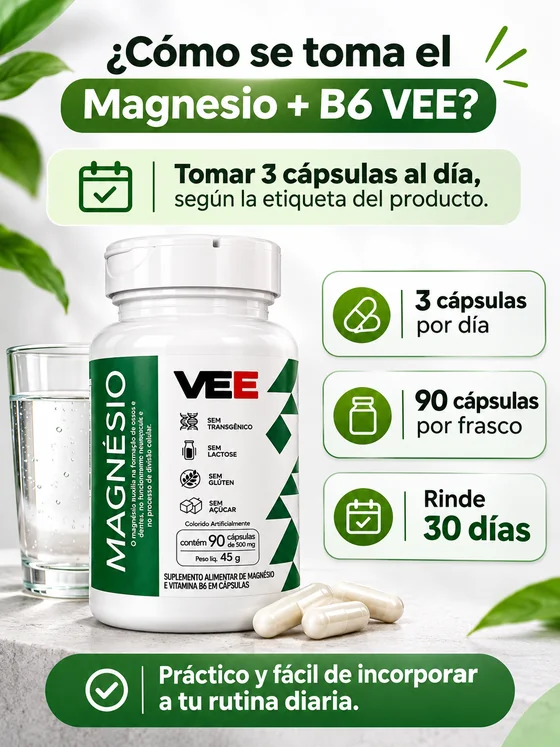
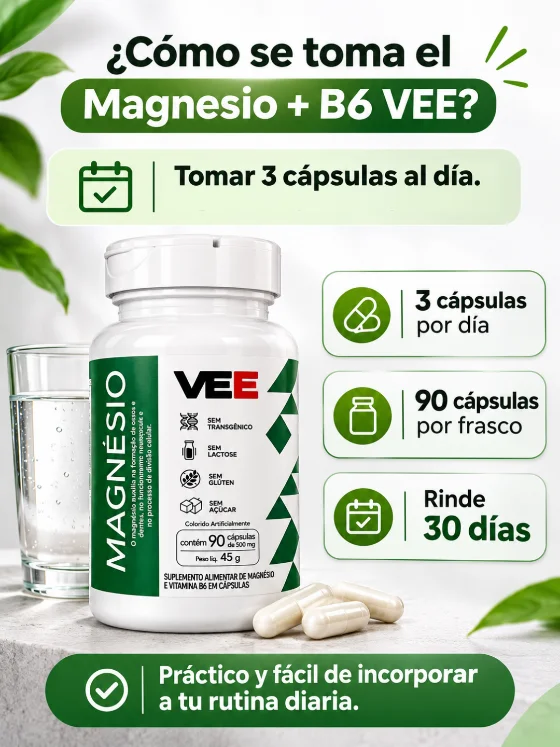
Edita piezas informativas y optimiza la galería

Changed region(s): [[0.3036, 0.2155, 0.8804, 0.2771], [0.3036, 0.7697, 0.3643, 0.8005], [0.2429, 0.6158, 0.2732, 0.6466]]

diff --git a/index.html b/index.html
@@ -7,7 +7,7 @@
 <meta name="description" content="Magnesio + Vitamina B6 VEE: 90 cápsulas de bisglicinato de magnesio, 350 mg de magnesio por porción. Envío gratis a todo el país, pagás al recibir.">
 <link rel="preconnect" href="https://fonts.googleapis.com">
 <link rel="preconnect" href="https://fonts.gstatic.com" crossorigin>
-<link rel="preload" as="image" href="img/mvee-un-frasco-1080.webp" fetchpriority="high">
+<link rel="preload" as="image" imagesrcset="img/mvee-un-frasco-560.webp 560w, img/mvee-un-frasco-800.webp 800w, img/mvee-un-frasco-1080.webp 1080w" imagesizes="(min-width: 1100px) 533px, (min-width: 900px) 49vw, calc(100vw - 32px)" fetchpriority="high">
 <link href="https://fonts.googleapis.com/css2?family=Poppins:wght@400;500;600;700;900&display=swap" rel="stylesheet">
 <!--
   PLANTILLA DE LANDING (estructura analizada de una página de referencia)
@@ -226,7 +226,6 @@ section{padding:40px 0}
 .banner{width:min(100%,560px);margin:0 auto}
 .banner button{display:block;width:100%;padding:0;border:0;background:none;cursor:pointer}
 .banner img{width:100%;height:auto}
-.banner__note{padding:8px 16px;text-align:center;color:var(--ok);font-weight:700}
 
 /* ---------- Pestañas ---------- */
 .product-info{padding-top:24px}
@@ -482,10 +481,10 @@ fbq('track', 'ViewContent', { content_name: 'Magnesio VEE', content_type: 'produ
   <img src="img/mvee-info-beneficios-1080.webp" srcset="img/mvee-info-beneficios-560.webp 560w, img/mvee-info-beneficios-1080.webp 1080w" sizes="(min-width: 560px) 560px, 100vw" width="1080" height="1440" alt="Para qué sirve el Magnesio + B6 VEE. Contribuye al funcionamiento de los músculos y el sistema nervioso y al metabolismo energético." loading="lazy" decoding="async">
 </div>
 <div class="banner">
-  <img src="img/mvee-info-quienes-1080.webp" srcset="img/mvee-info-quienes-560.webp 560w, img/mvee-info-quienes-1080.webp 1080w" sizes="(min-width: 560px) 560px, 100vw" width="1080" height="1424" alt="Quiénes pueden tomar Magnesio + B6 VEE. Para adultos que buscan complementar su alimentación. Ante dudas, consultá con un profesional de la salud." loading="lazy" decoding="async">
+  <img src="img/mvee-info-quienes-1080.webp" srcset="img/mvee-info-quienes-560.webp 560w, img/mvee-info-quienes-1080.webp 1080w" sizes="(min-width: 560px) 560px, 100vw" width="1080" height="1424" alt="Quiénes pueden tomar Magnesio + B6 VEE. Para adultos que buscan complementar su alimentación." loading="lazy" decoding="async">
 </div>
 <div class="banner">
-  <img src="img/mvee-info-como-tomar-1080.webp" srcset="img/mvee-info-como-tomar-560.webp 560w, img/mvee-info-como-tomar-1080.webp 1080w" sizes="(min-width: 560px) 560px, 100vw" width="1080" height="1440" alt="Cómo tomar Magnesio + B6 VEE. Según la etiqueta, 3 cápsulas al día. El frasco trae 90 cápsulas y rinde 30 días." loading="lazy" decoding="async">
+  <img src="img/mvee-info-como-tomar-1080.webp" srcset="img/mvee-info-como-tomar-560.webp 560w, img/mvee-info-como-tomar-1080.webp 1080w" sizes="(min-width: 560px) 560px, 100vw" width="1080" height="1440" alt="Cómo tomar Magnesio + B6 VEE. Tomar 3 cápsulas al día. El frasco trae 90 cápsulas y rinde 30 días." loading="lazy" decoding="async">
 </div>
 
 <!-- 7. Tabla comparativa -->
@@ -511,19 +510,12 @@ fbq('track', 'ViewContent', { content_name: 'Magnesio VEE', content_type: 'produ
   </div>
 </section>
 
-<!-- 11. Combos y precios -->
-<div class="banner">
-  <p class="banner__note" id="bannerPriceNote" hidden>La imagen muestra los precios de lista. Tu descuento se aplica en el pedido.</p>
-  <button type="button" id="comboBanner" data-banner-order>
-    <img src="img/mvee-tres-frascos-1080.webp" srcset="img/mvee-tres-frascos-560.webp 560w, img/mvee-tres-frascos-1080.webp 1080w" sizes="(min-width: 560px) 560px, 100vw" width="1080" height="1350" alt="Magnesio + Vitamina B6 VEE: 3 frascos por Gs. 399.000, ahorrás Gs. 108.000 frente a comprarlos por separado. Abrir pedido." loading="lazy" decoding="async">
-  </button>
-</div>
 <!-- Envíos y cierre de compra -->
 <div class="banner">
   <img src="img/mvee-info-envios-1080.webp" srcset="img/mvee-info-envios-560.webp 560w, img/mvee-info-envios-1080.webp 1080w" sizes="(min-width: 560px) 560px, 100vw" width="1080" height="1424" alt="Envío gratis a todo Paraguay. En Asunción y Central pagás al recibir. Consultá disponibilidad para otras zonas." loading="lazy" decoding="async">
 </div>
 <div class="banner">
-  <button type="button" data-banner-order>
+  <button type="button" id="finalBuyBanner" data-banner-order>
     <img src="img/mvee-info-comprar-1080.webp" srcset="img/mvee-info-comprar-560.webp 560w, img/mvee-info-comprar-1080.webp 1080w" sizes="(min-width: 560px) 560px, 100vw" width="1080" height="1424" alt="Sumá Magnesio + Vitamina B6 VEE a tu rutina diaria. Envío gratis. Comprar ahora." loading="lazy" decoding="async">
   </button>
 </div>
@@ -570,7 +562,9 @@ const CONFIG = {
     proof: "Suplemento alimentario en cápsulas · 90 cápsulas · 30 días",
     badges: [],   // las fotos ya traen texto
     coverAlt: "Magnesio + Vitamina B6 VEE. Por porción de 3 cápsulas: 350 mg de magnesio y 1,7 mg de vitamina B6. 90 cápsulas para 30 días. 1 frasco por Gs. 169.000.",
-    coverThumbnail: "img/mvee-un-frasco-560.webp",
+    coverSrcset: "img/mvee-un-frasco-560.webp 560w, img/mvee-un-frasco-800.webp 800w, img/mvee-un-frasco-1080.webp 1080w",
+    coverSizes: "(min-width: 1100px) 533px, (min-width: 900px) 49vw, calc(100vw - 32px)",
+    thumbnails: ["img/mvee-un-frasco-thumb.webp", "img/producto-frente-thumb.webp", "img/mvee-composicion-thumb.webp", "img/producto-tabla-thumb.webp"],
     images: ["img/mvee-un-frasco-1080.webp", "img/producto-frente.webp", "img/mvee-composicion-1080.webp", "img/producto-tabla.webp"]
   },
 
@@ -686,7 +680,10 @@ function showImage(i) {
   current = i;
   const main = $("galleryMain");
   main.querySelectorAll("img,.ph").forEach(n => n.remove());
-  main.insertAdjacentHTML("afterbegin", img(P.images[i], i === 0 ? P.coverAlt : P.name, `Foto ${i + 1} · 1080×1350`).replace('loading="lazy"', i === 0 ? 'fetchpriority="high"' : 'loading="lazy"'));
+  const slide = img(P.images[i], i === 0 ? P.coverAlt : P.name, `Foto ${i + 1} · 1080×1350`);
+  main.insertAdjacentHTML("afterbegin", i === 0
+    ? slide.replace('loading="lazy"', `width="1080" height="1350" srcset="${P.coverSrcset}" sizes="${P.coverSizes}" fetchpriority="high"`)
+    : slide);
   [...$("thumbs").children].forEach((b, j) => b.setAttribute("aria-current", j === i));
 }
 function stepImage(step) {
@@ -694,7 +691,7 @@ function stepImage(step) {
 }
 $("galleryPrev").addEventListener("click", () => stepImage(-1));
 $("galleryNext").addEventListener("click", () => stepImage(1));
-$("thumbs").innerHTML = P.images.map((s, i) => `<button type="button" aria-label="Ver foto ${i + 1}">${img(i === 0 ? P.coverThumbnail : s, "", "")}</button>`).join("");
+$("thumbs").innerHTML = P.thumbnails.map((src, i) => `<button type="button" aria-label="Ver foto ${i + 1}">${img(src, "", "")}</button>`).join("");
 [...$("thumbs").children].forEach((b, i) => b.addEventListener("click", () => showImage(i)));
 showImage(0);
 
@@ -756,7 +753,6 @@ function updatePrice() {
   $("sumSubtotal").textContent = money(subtotal);
   $("sumSave").textContent = "– " + money(subtotal - selected.price);
   document.querySelectorAll(".sum-save").forEach(el => el.hidden = subtotal === selected.price);
-  $("bannerPriceNote").hidden = !EXIT.active;
   $("sumExit").textContent = "– " + money(exitOff(selected));
   document.querySelectorAll(".sum-exit").forEach(el => el.hidden = !exitOff(selected));
   $("sumTotal").textContent = money(finalPrice(selected));
@@ -1134,10 +1130,10 @@ $("waFloat").href = `https://wa.me/${CONFIG.order.whatsapp}?text=${encodeURIComp
     if (window.fbq) fbq("track", "Contact", { content_name: "Magnesio VEE" });
   });
 });
-// En pantallas angostas, la placa de combos ocupa todo el ancho.
+// En pantallas angostas, el botón flotante deja libre la pieza de compra final.
 new IntersectionObserver(([entry]) => {
   $("waFloat").classList.toggle("over-offer", entry.isIntersecting);
-}).observe($("comboBanner"));
+}).observe($("finalBuyBanner"));
 
 /* --- Descuento "antes de irte" --- */
 // Sale una sola vez por persona, cuando parece que se va: el mouse sale por arriba (PC),
